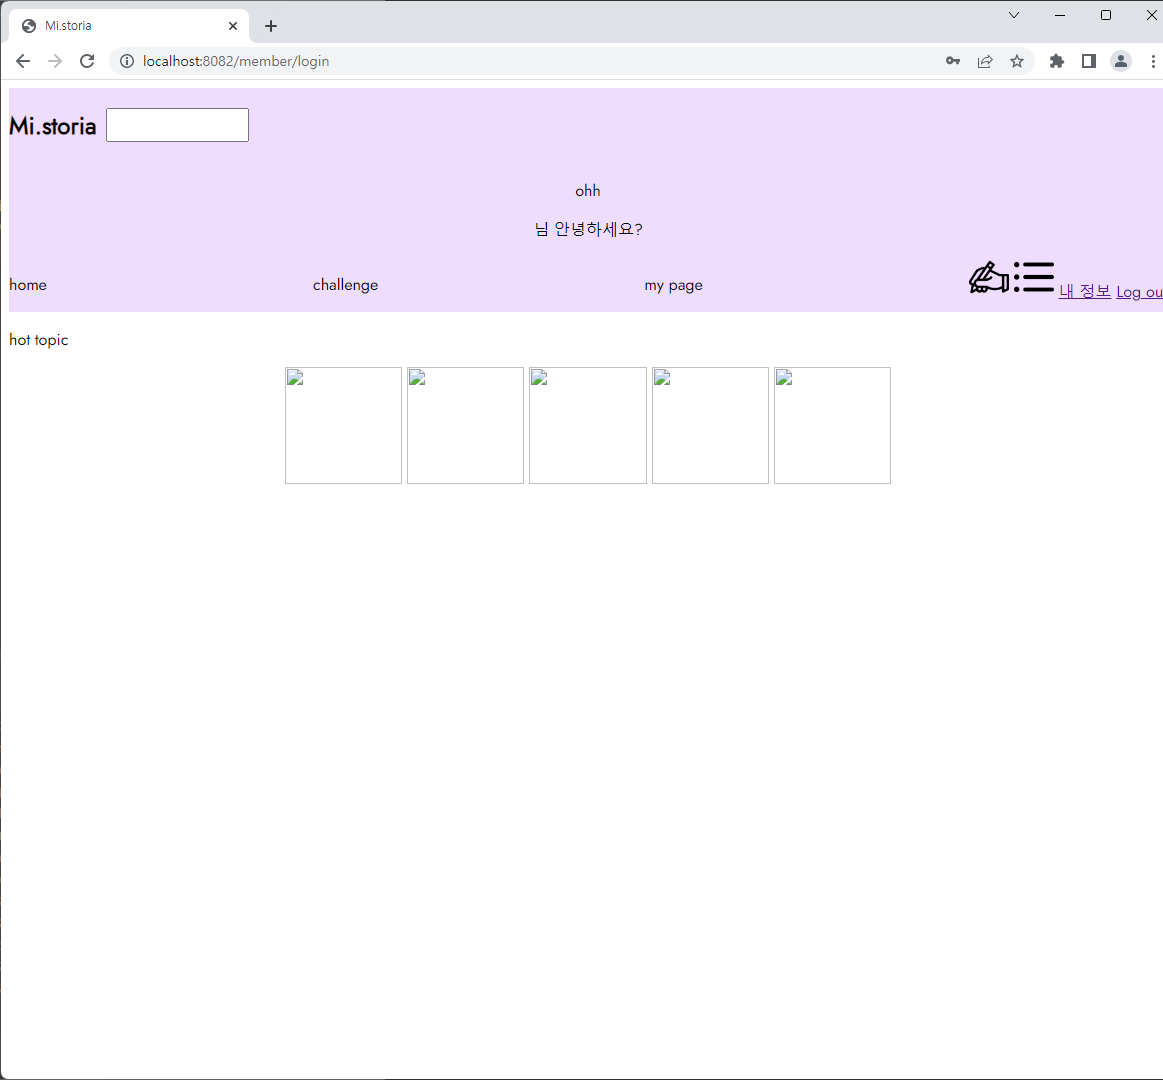
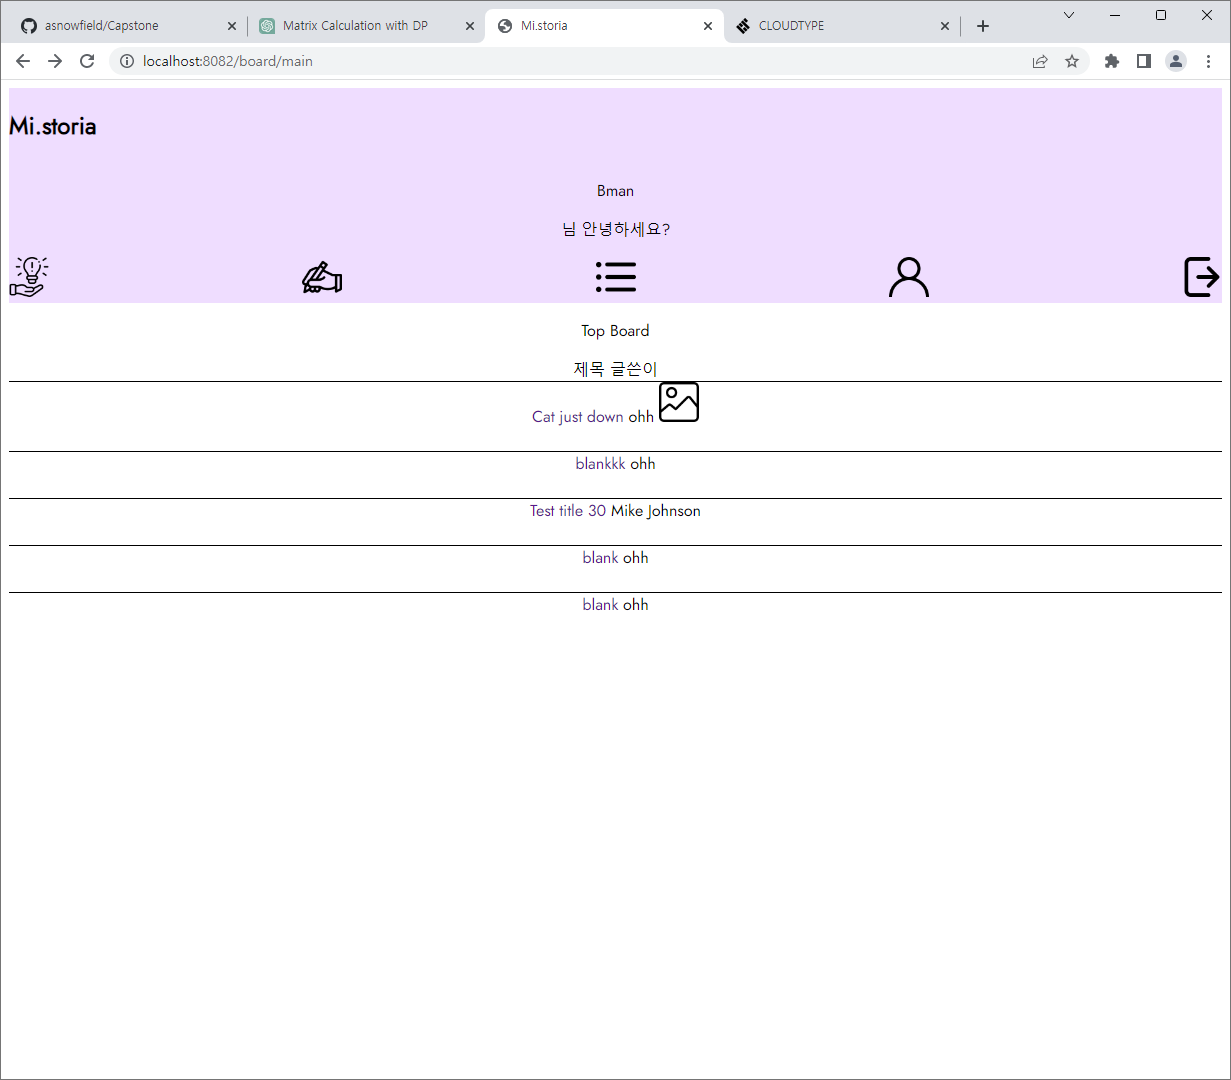
Add files via upload

diff --git a/src/main/resources/templates/main.html b/src/main/resources/templates/main.html
@@ -14,30 +14,34 @@
 <header class="header">
   <div class="head">
     <h2>Mi.storia</h2>
-    <input class="searchBar" type="text"/>
+    <input class="searchBar hidden" type="text"/>
   </div>
 <div class="name">
   <p th:text="${member.memberName}"></p><p>님 안녕하세요?</p>
 </div>
-  <div class="navBar">
-    <p>home</p>
-    <p onclick="challengePopup()">challenge</p>
-    <p>my page</p>
     <div class="imgtag">
+      <img id="challenge" onclick="challengePopup()" src="/img/problem-solving.png">
       <a href="/board/save" onclick="normalWriting()"><img alt="writing" src="/img/writing.png"/></a>
       <a href="/board/paging"><img alt="list" src="/img/list.png"/></a>
-      <a href="/member/find">내 정보</a>
-      <a href="/member/logout">Log out</a>
+      <a href="/member/find"><img src="/img/user.png"></a>
+      <a href="/member/logout"><img src="/img/logout.png"></a>
     </div>
-  </div>
 </header>
-<p>hot topic</p>
-<div class="hotTop">
-  <img alt="" class="hotTopImg" src=""/>
-  <img alt="" class="hotTopImg" src=""/>
-  <img alt="" class="hotTopImg" src=""/>
-  <img alt="" class="hotTopImg" src=""/>
-  <img alt="" class="hotTopImg" src=""/>
+<div class="hotopContent">
+  <p>Top Board</p>
+  <tr class="top">
+    <th class="title">제목</th>
+    <th class="writer">글쓴이</th>
+  </tr>
+<tr th:each="board: ${boardList}">
+  <div class="boardEdge">
+    <div class="boardText"><a th:href="@{|/board/${board.id}|(page=${boardList.number + 1})}"th:text="${board.boardTitle}"></a>
+      <td th:text="${board.boardWriter}"></td>
+      <img th:if="${board.fileAttached}" th:src="@{/img/selected.png}" alt="Image">
+    </div>
+    </br>
+  </div>
+</tr>
 </div>
 </body>
 <div class="popup hidden" id="popup">
@@ -70,7 +74,11 @@ const currentMonth = currentDate.getMonth();
 const selectedKeyword = keywords[currentMonth];
 document.getElementById("challengeContent").textContent = selectedKeyword;
 const popup = document.getElementById("popup");
+const imageContainer = document.getElementById('challenge');
 
+imageContainer.addEventListener('mouseover', function() {
+  imageContainer.style.cursor = 'pointer';
+});
       normalWriting = () => {
         localStorage.setItem("challengeIs","false");
       }

diff --git a/src/main/resources/static/css/main.css b/src/main/resources/static/css/main.css
@@ -8,12 +8,6 @@ img {
   width: 40px;
   height: 40px;
 }
-.hotTopImg{
-  min-width: 100px;
-  min-height: 100px;
-  width: 10vw;
-  height: 10vw;
-}
 .name{
 text-align:center;
 }
@@ -23,9 +17,7 @@ text-align:center;
 .head{
     display: flex;
 }
-.imgtag {
-    float: right;
-}
+
 .hidden {
     display: none;
 }
@@ -58,6 +50,18 @@ text-align:center;
     height: 28px;
     margin: auto 10px;
   }
-  .hotTop{
-text-align: center;
-  }
+.hotopContent{
+display:flex;
+flex-direction:column;
+text-align:center;
+}
+.imgtag{
+display:flex;
+justify-content:space-between;
+}
+.boardText{
+margin:0 auto;
+}
+.boardEdge{
+border-top:1px solid;
+}

diff --git a/src/main/resources/templates/paging.html b/src/main/resources/templates/paging.html
@@ -31,7 +31,7 @@
                         <th class="title">제목</th>
                         <th class="writer">글쓴이</th>
                         <th class="date">날짜</th>
-                        <th class="count">조회</th>
+                        <th class="count"><img src="/img/visible-opened-eye-interface-option.png"></th>
                     </tr>
                     <tr class="top" th:each="board: ${boardList}">
                         <td class="num" th:text="${board.id}"></td>

diff --git a/src/main/resources/static/css/paging.css b/src/main/resources/static/css/paging.css
@@ -31,7 +31,9 @@ text-decoration: none;
 text-align: center;
 color: inherit;
 }
-
+.top img{
+width:20px;
+}
 .board_wrap {
 width: 70vw;
 margin: 0 auto;

diff --git a/src/main/java/com/snow/board/service/BoardService.java b/src/main/java/com/snow/board/service/BoardService.java
@@ -1,6 +1,7 @@
 package com.snow.board.service;
 
 import com.snow.board.dto.BoardDTO;
+import com.snow.board.dto.MemberDTO;
 import com.snow.board.entity.BoardEntity;
 import com.snow.board.entity.BoardFileEntity;
 import com.snow.board.repository.BoardFileRepository;
@@ -10,15 +11,13 @@ import org.springframework.data.domain.Page;
 import org.springframework.data.domain.PageRequest;
 import org.springframework.data.domain.Pageable;
 import org.springframework.data.domain.Sort;
-import org.springframework.data.repository.query.Param;
 import org.springframework.stereotype.Service;
 import org.springframework.transaction.annotation.Transactional;
 import org.springframework.web.multipart.MultipartFile;
 
+import javax.servlet.http.HttpSession;
 import java.io.File;
 import java.io.IOException;
-import java.util.ArrayList;
-import java.util.List;
 import java.util.Optional;
 
 @Service
@@ -35,7 +34,7 @@ public class BoardService {
             MultipartFile boardFile = boardDTO.getBoardFile();
             String originalFilename = boardFile.getOriginalFilename();
             String storedFileName = System.currentTimeMillis() + "_" + originalFilename;
-            String savePath = "C:/Users/HP13/Downloads/Capstone-master/src/main/resources/static/img/" + storedFileName;
+            String savePath = "C:/Users/HP13/Desktop/" + storedFileName;
             boardFile.transferTo(new File(savePath));
             BoardEntity boardEntity = BoardEntity.toSaveFileEntity(boardDTO);
             Long savedId = boardRepository.save(boardEntity).getId();
@@ -43,16 +42,6 @@ public class BoardService {
             BoardFileEntity boardFileEntity = BoardFileEntity.toBoardFileEntity(board, originalFilename, storedFileName);
             boardFileRepository.save(boardFileEntity);
         }
-    }
-
-    @Transactional
-    public List<BoardDTO> findAll() {
-        List<BoardEntity> boardEntityList = boardRepository.findAll();
-        List<BoardDTO> boardDTOList = new ArrayList<>();
-        for (BoardEntity boardEntity: boardEntityList) {
-            boardDTOList.add(BoardDTO.toBoardDTO(boardEntity));
-        }
-        return boardDTOList;
     }
 
     @Transactional
@@ -78,12 +67,30 @@ public class BoardService {
 
     public void delete(Long id) {boardRepository.deleteById(id);}
 
+    public Page<BoardDTO> main() {
+        int page = 0;
+        int pageLimit = 5;
+        Page<BoardEntity> boardEntities =
+                boardRepository.findAll(PageRequest.of(page, pageLimit, Sort.by(Sort.Direction.DESC, "boardHits")));
+        Page<BoardDTO> boardDTOS = boardEntities.map(board -> new BoardDTO(board.getId(), board.getBoardWriter(), board.getBoardTitle(), board.getBoardHits(), board.getCreatedTime(),board.getFileAttached()));
+        return boardDTOS;
+    }
+
     public Page<BoardDTO> paging(Pageable pageable) {
         int page = pageable.getPageNumber() - 1;
         int pageLimit = 10;
         Page<BoardEntity> boardEntities =
             boardRepository.findAll(PageRequest.of(page, pageLimit, Sort.by(Sort.Direction.DESC, "id")));
-        Page<BoardDTO> boardDTOS = boardEntities.map(board -> new BoardDTO(board.getId(), board.getBoardWriter(), board.getBoardTitle(), board.getBoardHits(), board.getCreatedTime()));
+        Page<BoardDTO> boardDTOS = boardEntities.map(board -> new BoardDTO(board.getId(), board.getBoardWriter(), board.getBoardTitle(), board.getBoardHits(), board.getCreatedTime(),board.getFileAttached()));
         return boardDTOS;
     }
 }
+//    @Transactional
+//    public List<BoardDTO> findAll() {
+//        List<BoardEntity> boardEntityList = boardRepository.findAll();
+//        List<BoardDTO> boardDTOList = new ArrayList<>();
+//        for (BoardEntity boardEntity: boardEntityList) {
+//            boardDTOList.add(BoardDTO.toBoardDTO(boardEntity));
+//        }
+//        return boardDTOList;
+//    }

diff --git a/src/main/java/com/snow/board/controller/BoardController.java b/src/main/java/com/snow/board/controller/BoardController.java
@@ -41,13 +41,15 @@ public class BoardController {
     }
 
     @PostMapping("/member/login")
-    public String login(@ModelAttribute("member") MemberDTO memberDTO, HttpSession session, Model model) {
+    public String login(@ModelAttribute("member") MemberDTO memberDTO, HttpSession session, Model model, @PageableDefault(page = 1) Pageable pageable) {
         MemberDTO loginResult = memberService.login(memberDTO);
         if (loginResult != null) {
             session.setAttribute("loginEmail", loginResult.getMemberEmail());
             String myEmail = (String) session.getAttribute("loginEmail");
             MemberDTO showMemberDTO = memberService.updateForm(myEmail);
             model.addAttribute("member",showMemberDTO);
+            Page<BoardDTO> boardList = boardService.main();
+            model.addAttribute("boardList",boardList);
             return "main";
         } else {
             return "login";
@@ -67,6 +69,7 @@ public class BoardController {
         boardService.save(boardDTO);
         return "redirect:/board/paging";
     }
+
     @GetMapping("/board/paging")
     public String paging(@PageableDefault(page = 1) Pageable pageable, Model model,HttpSession session) {
 
@@ -131,10 +134,12 @@ public class BoardController {
     }
 
     @GetMapping("/board/main")
-    public String maining(Model model, HttpSession session) {
+    public String mainIng(Model model, HttpSession session) {
         String myEmail = (String) session.getAttribute("loginEmail");
         MemberDTO showMemberDTO = memberService.updateForm(myEmail);
         model.addAttribute("member",showMemberDTO);
+        Page<BoardDTO> boardList = boardService.main();
+        model.addAttribute("boardList",boardList);
         return "main";
     }
 

diff --git a/src/main/java/com/snow/board/dto/BoardDTO.java b/src/main/java/com/snow/board/dto/BoardDTO.java
@@ -21,16 +21,17 @@ public class BoardDTO {
     private LocalDateTime boardUpdatedTime;
 
     private MultipartFile boardFile; // save.html -> Controller 파일 담는 용도
-    private String originalFileName; // 원본 파일 이름
-    private String storedFileName; // 서버 저장용 파일 이름
-    private int fileAttached; // 파일 첨부 여부(첨부 1, 미첨부 0)
+    private String originalFileName;
+    private String storedFileName;
+    private int fileAttached;
 
-    public BoardDTO(Long id, String boardWriter, String boardTitle, int boardHits, LocalDateTime boardCreatedTime) {
+    public BoardDTO(Long id, String boardWriter, String boardTitle, int boardHits, LocalDateTime boardCreatedTime, int fileAttached) {
         this.id = id;
         this.boardWriter = boardWriter;
         this.boardTitle = boardTitle;
         this.boardHits = boardHits;
         this.boardCreatedTime = boardCreatedTime;
+        this.fileAttached=fileAttached;
     }
 
     public static BoardDTO toBoardDTO(BoardEntity boardEntity) {
@@ -46,10 +47,6 @@ public class BoardDTO {
             boardDTO.setFileAttached(boardEntity.getFileAttached()); // 0
         } else {
             boardDTO.setFileAttached(boardEntity.getFileAttached()); // 1
-            // orginalFileName, storedFileName : board_file_table(BoardFileEntity)
-            // join
-            // select * from board_table b, board_file_table bf where b.id=bf.board_id
-            // and where b.id=?
             boardDTO.setOriginalFileName(boardEntity.getBoardFileEntityList().get(0).getOriginalFileName());
             boardDTO.setStoredFileName(boardEntity.getBoardFileEntityList().get(0).getStoredFileName());
         }

diff --git a/src/main/java/com/snow/board/repository/BoardRepository.java b/src/main/java/com/snow/board/repository/BoardRepository.java
@@ -1,10 +1,15 @@
 package com.snow.board.repository;
 
 import com.snow.board.entity.BoardEntity;
+import org.springframework.data.domain.Page;
+import org.springframework.data.domain.PageRequest;
+import org.springframework.data.domain.Pageable;
 import org.springframework.data.jpa.repository.JpaRepository;
 import org.springframework.data.jpa.repository.Modifying;
 import org.springframework.data.jpa.repository.Query;
 import org.springframework.data.repository.query.Param;
+
+import java.util.List;
 
 public interface BoardRepository extends JpaRepository<BoardEntity, Long> {
     @Modifying
